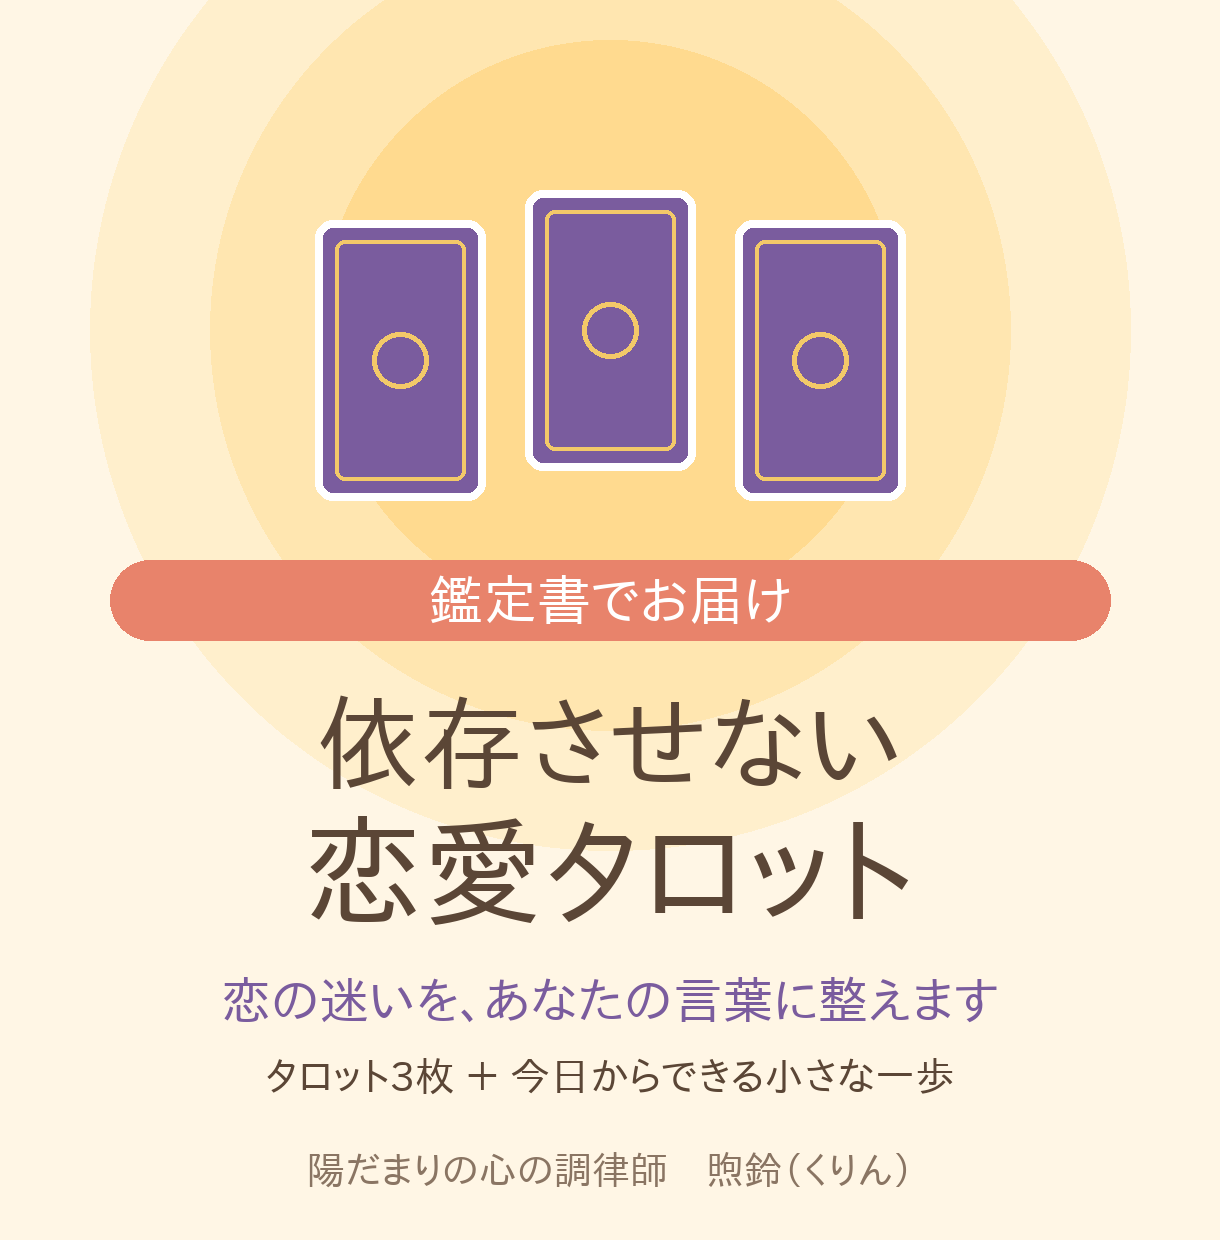
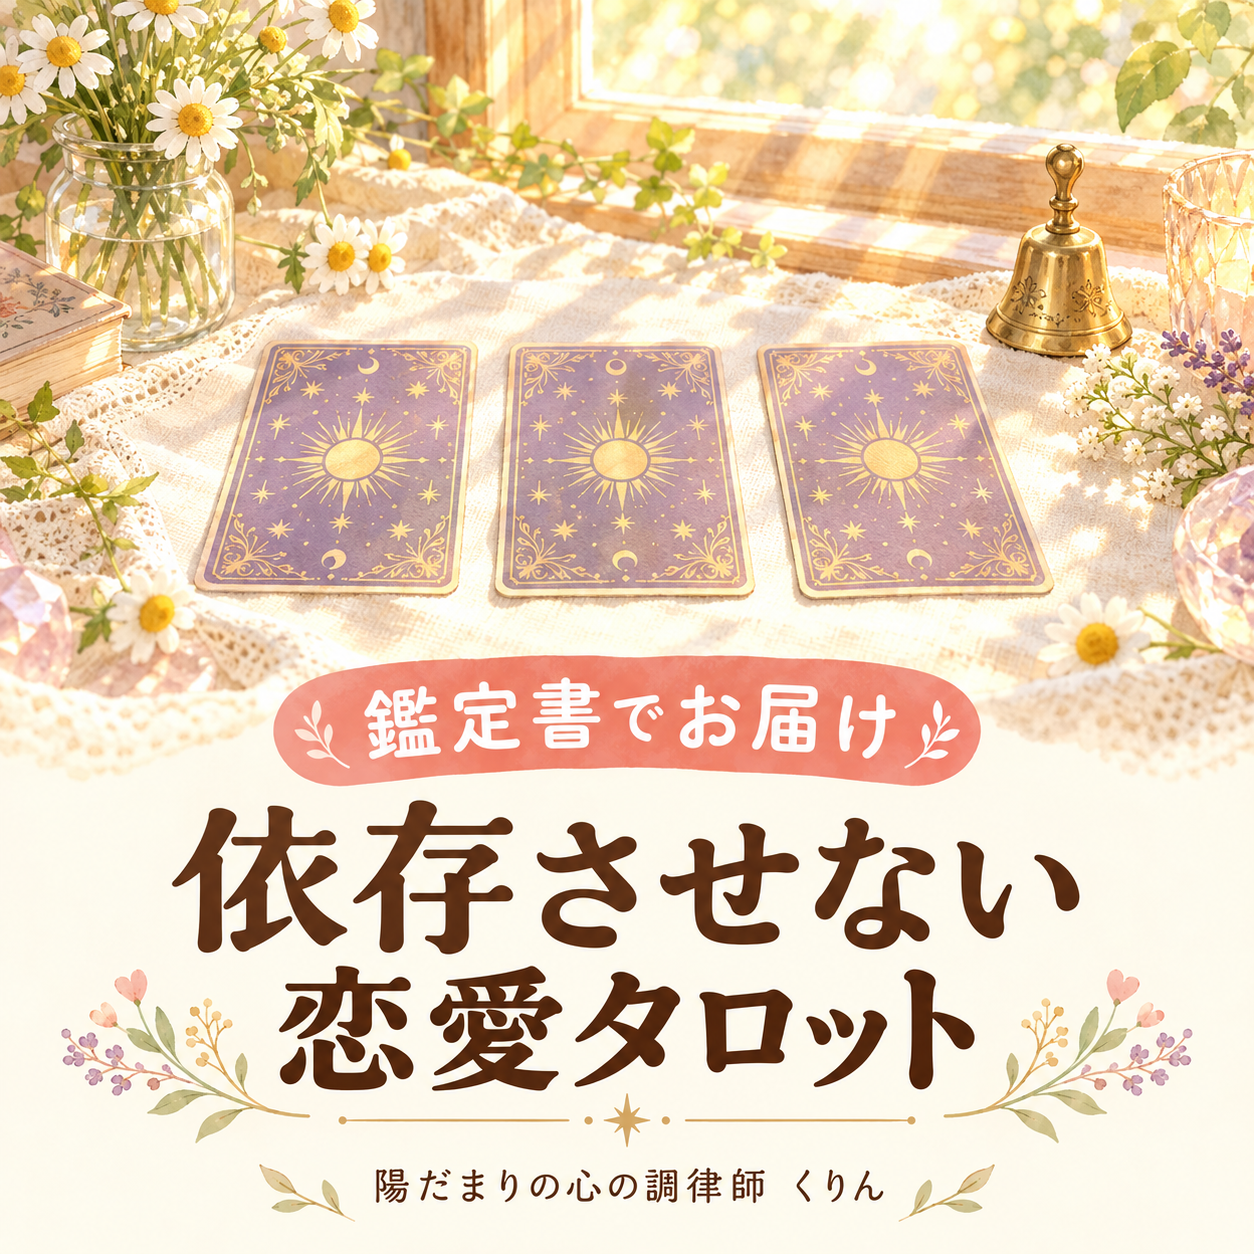
Replace kurin Coconala thumbnail with final generated image
Claude-Session: https://claude.ai/code/session_01LHZpZhVnSr9ThKgmUe1HjH

diff --git a/brands/kurin.md b/brands/kurin.md
@@ -51,7 +51,7 @@
 - 調べたこと：手数料は22%（1,500円なら手取り約1,170円）。ココナラは AI を作業の道具として認めていて、禁止は AI のイラストをそのまま納品すること。説明文には正直に一言書いておく
 
 ## 次にやること
-0. **ココナラに文章鑑定を出品する**：`kurin/coconala-listing.md` の「出品の手順」どおりに、アカウント作成 → プロフィール → 本人確認 → 文章を貼る → 画像を入れる（仮の画像 `kurin/coconala-thumbnail.png` はオーナーの判断で作り直し：`kurin/coconala-thumbnail-prompts.md` の指示文で Recraft で絵を作る → チャットに送ってもらい、Claude が日本語の文字を入れて仕上げる）。公開したら出品ページの URL をチャットに貼る → X のプロフィールと投稿に入れる
+0. **ココナラに文章鑑定を出品する**：`kurin/coconala-listing.md` の「出品の手順」どおりに、アカウント作成 → プロフィール → 本人確認 → 文章を貼る → 画像 `kurin/coconala-thumbnail.png` を入れる（画像生成で文字入りで作り直した完成版。指示文は `kurin/coconala-thumbnail-prompts.md` の A' ）。公開したら出品ページの URL をチャットに貼る → X のプロフィールと投稿に入れる
 0. くりんの X：毎日1本、タイプ別のあるある・相性診断などで診断サイトにつなぐ投稿（URL は最後）。1週目は `kurin/x-posts-week1.md`（黒猫は投稿済み。1日目＝子犬から順に）、2週目は `kurin/x-posts-week2.md`（8日目から）。10日目の「タイプを教えてね」に返信が来たら、そのタイプに合わせて一言返す。2週目が終わるころに、GA4 で X からの訪問を見て3週目を作る
    - 1日3本の形：朝7〜8時＝ためになる投稿、昼12時＝診断の投稿、夜21〜22時＝ためになる投稿。ためになる投稿は `kurin/x-posts-love-tips-week1.md` の1日目から。どの投稿に反応（いいね・返信）が多いかを見て、次の週の内容を決める
 1. Pinterest：相性診断のピン（`pins/pin-aisho.png`、文章は `pins/pin-texts.md` の 7）を投稿
